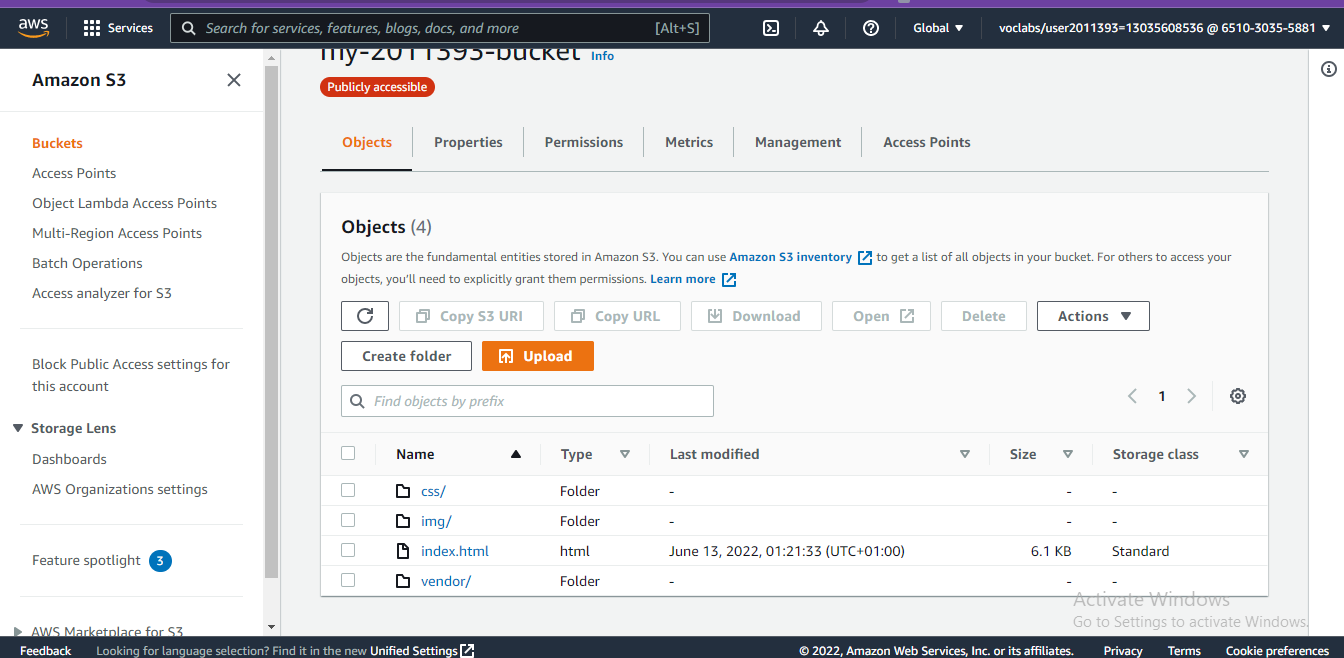
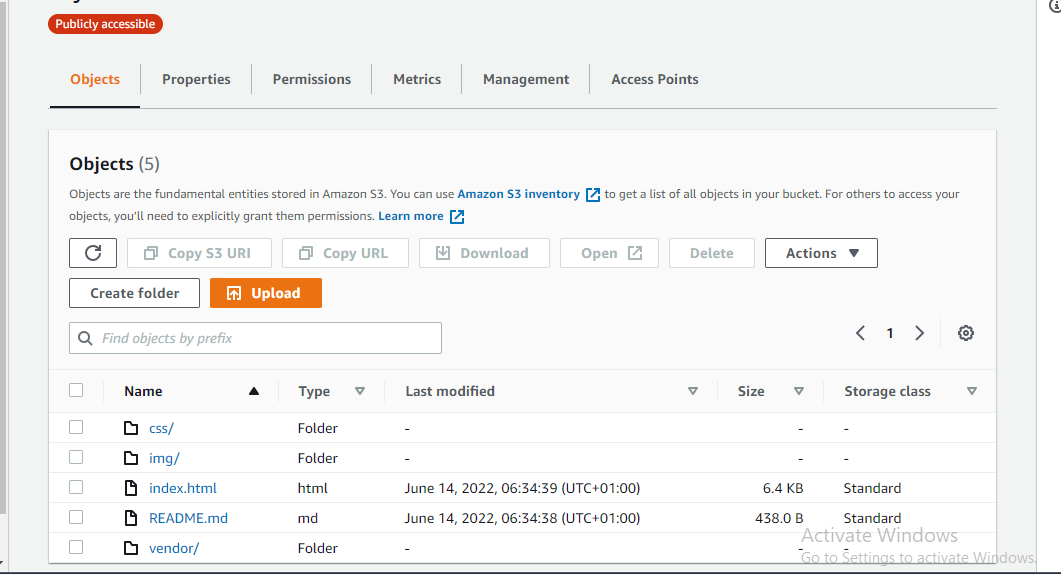
updated

diff --git a/README.md b/README.md
@@ -1,8 +1,40 @@
 # ALX-T-Udacity-static-website-upload-project
 
+Deploy Static Website on AWS
+
+In this project, I deployed a static website to AWS using S3, CloudFront, and IAM.
+
+The files included are: 
+
+index.html - The Index document for the website.
+/img - The background image file for the website.
+/vendor - Bootssrap CSS framework, Font, and JavaScript libraries needed for the website to function.
+/css - CSS files for the website.
+
+
 Link to the site
 https://dns0cypy20v13.cloudfront.net/
 
 Bucket link to the deployed site
 
 http://my-2011393-bucket.s3-website-us-east-1.amazonaws.com
+
+
+
+###### Note For Reviewer#############
+
+
+Dear Reviewer,
+
+Thank you, for the guidelines.
+
+I have made the modifications you instructed. 
+Yes, you are correct when you assumed that I had deleted the bucket.
+ I did that with the intention of managing my free subscription quota.
+
+Therefore, to meet with the current requirements I had to recreate the entire bucket all over again.
+Therefore in my "The website is distributed via Cloudfront.png" file you will see two cloudfront \
+distribution there: the one enabled is for the new bucket, while the other disabled is for the old bucket.
+
+ Thanks.
+
